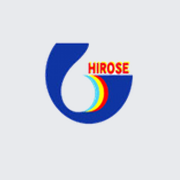
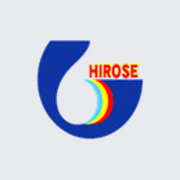
アプリアイコン：図柄を切り出してアイコン中央に配置（上寄りを修正）

Changed region(s): [[0.1944, 0.2222, 0.8056, 0.7778], [0.3611, 0.3889, 0.3889, 0.4167]]

diff --git a/index.html b/index.html
@@ -6,9 +6,9 @@
 <meta name="robots" content="noindex, nofollow">
 <title>作業日報OCR</title>
 <link rel="manifest" href="manifest.webmanifest">
-<link rel="icon" type="image/png" sizes="32x32" href="favicon-32.png">
-<link rel="icon" type="image/png" sizes="192x192" href="icon-192.png">
-<link rel="apple-touch-icon" href="apple-touch-icon.png">
+<link rel="icon" type="image/png" sizes="32x32" href="favicon-32.png?v=2">
+<link rel="icon" type="image/png" sizes="192x192" href="icon-192.png?v=2">
+<link rel="apple-touch-icon" href="apple-touch-icon.png?v=2">
 <meta name="theme-color" content="#e8eaed">
 <style>
   :root {
@@ -129,7 +129,7 @@
 <body>
 <header>
   <div class="in">
-    <h1>作業日報OCR <small class="muted" style="font-weight:400;font-size:.75rem">Ver 10/25-f</small></h1>
+    <h1>作業日報OCR <small class="muted" style="font-weight:400;font-size:.75rem">Ver 10/25-g</small></h1>
     <div class="row" style="align-items:center;gap:8px;flex-wrap:nowrap">
     <button class="icon-btn" id="openSettings" aria-label="設定">
       <svg viewBox="0 0 24 24" fill="none" stroke="currentColor" stroke-width="2" stroke-linecap="round" stroke-linejoin="round" aria-hidden="true">
